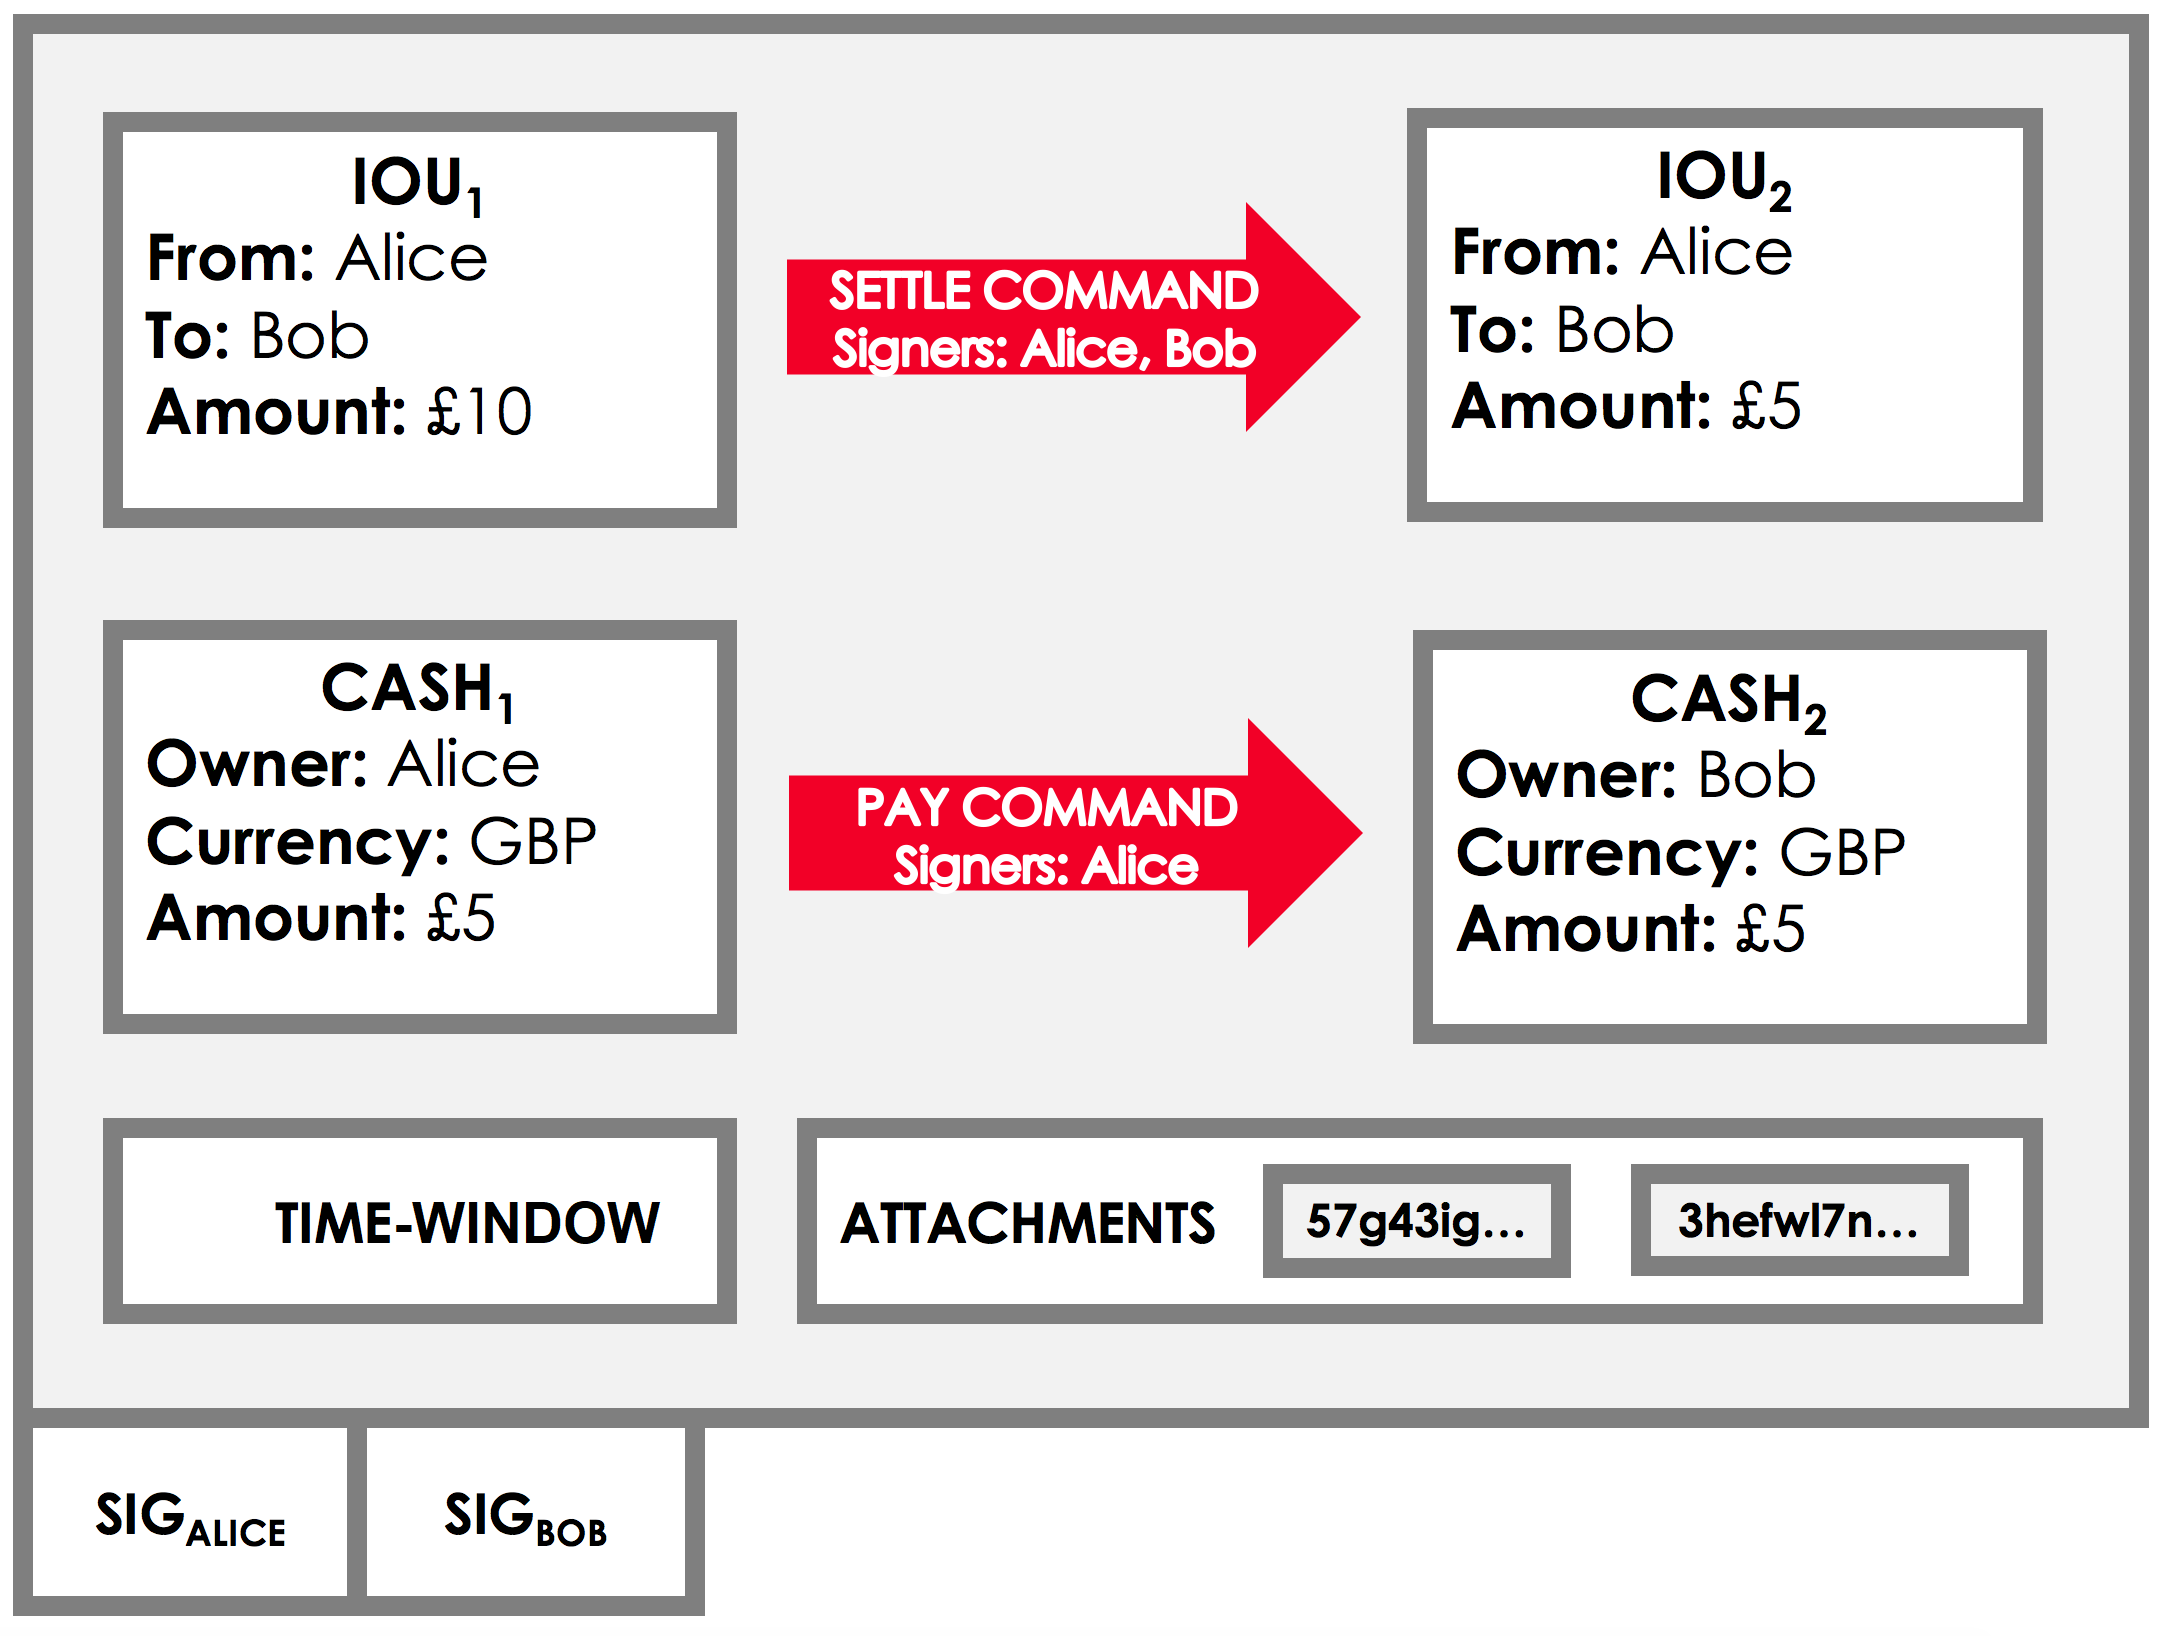
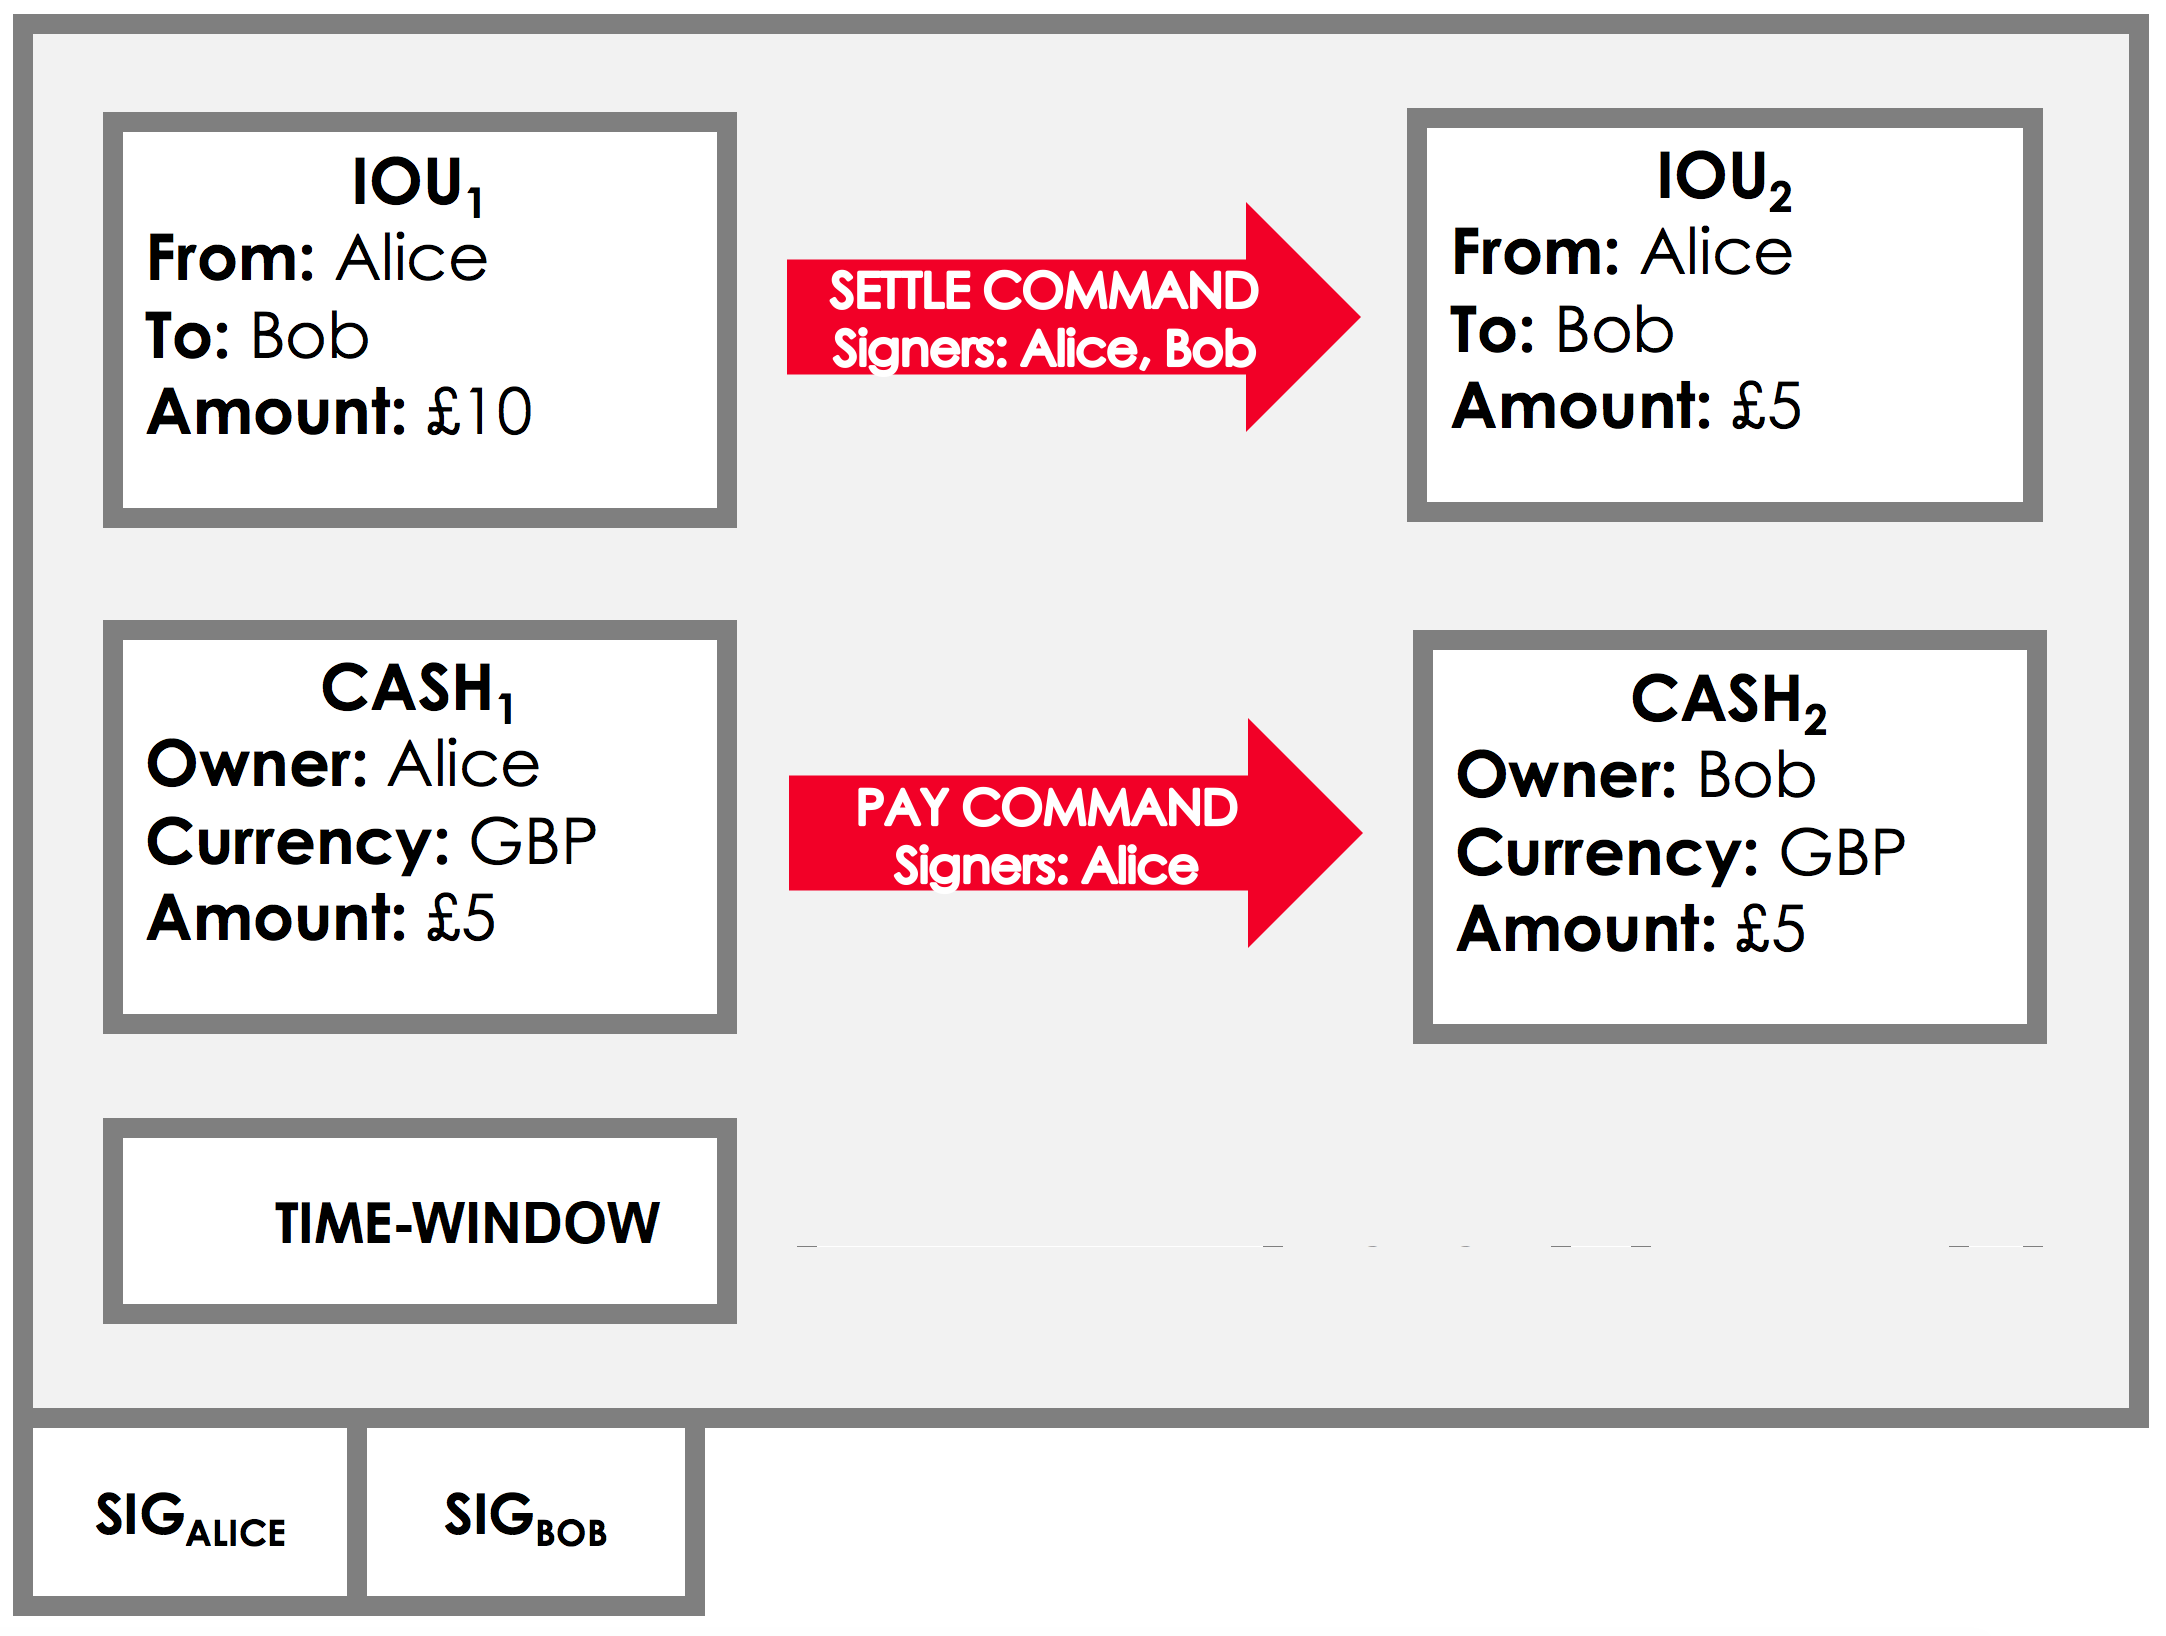
remove attachments

Changed region(s): [[0.3403, 0.6858, 0.9589, 0.8105]]

diff --git a/content/en/platform/corda/5.1/developing-applications/ledger/transactions/_index.md b/content/en/platform/corda/5.1/developing-applications/ledger/transactions/_index.md
@@ -98,15 +98,10 @@ Some states need to be referred to by the contracts of other input or output sta
 As well as input states and output states, transactions contain:
 
 * [Commands](#commands)
-* [Attachments](#attachments)
 * [Time windows](#time-windows)
 * [A notary](#notary)
 
-{{< note >}}
-Attachments will be implemented in a future release.
-{{< /note >}}
-
-For example, suppose Alice uses $5 cash to pay off $5 of an IOU with Bob. This transaction contains a settlement command which reduces the amount outstanding on the IOU, and a payment command which changes the ownership of $5 from Alice to Bob. It also has two supporting attachments, and is notarized by `NotaryClusterA` if the notary pool receives it within the specified time window:
+For example, suppose Alice uses $5 cash to pay off $5 of an IOU with Bob. This transaction contains a settlement command which reduces the amount outstanding on the IOU, and a payment command which changes the ownership of $5 from Alice to Bob. It is notarized by `NotaryClusterA` if the notary pool receives it within the specified time window:
 
 {{<
   figure

diff --git a/content/en/platform/corda/5.1/developing-applications/ledger/smart-contracts/_index.md b/content/en/platform/corda/5.1/developing-applications/ledger/smart-contracts/_index.md
@@ -40,7 +40,7 @@ Each transaction state specifies a contract type. The contract specified takes t
 
 The contract code can:
 
-* Check the number of inputs, outputs, commands, or attachments.
+* Check the number of inputs, outputs, or commands.
 * Check that the [time window]({{< relref "../time-windows/_index.md" >}}) matches the expectations for the given transaction. For example, that a point in time mentioned in one of the states (inputs, outputs, or references) occurs within the time window.
 * Check the contents of all components.
 * Evaluate looping constructs, variable assignments, function calls, helper methods, and other aspects of the transaction code.

diff --git a/content/en/platform/corda/5.1/developing-applications/ledger/notaries/_index.md b/content/en/platform/corda/5.1/developing-applications/ledger/notaries/_index.md
@@ -32,7 +32,6 @@ The non-validating notary protocol maintains a degree of privacy by only reveali
 | Input states                      | References only [1]       |
 | Output states                     | Number of states only [2] |
 | Commands (with signer identities) | Hidden                    |
-| Attachments                       | Hidden                    |
 | Time window                       | Fully visible             |
 | Notary identity                   | Fully visible             |
 | Signatures                        | Hidden                    |
